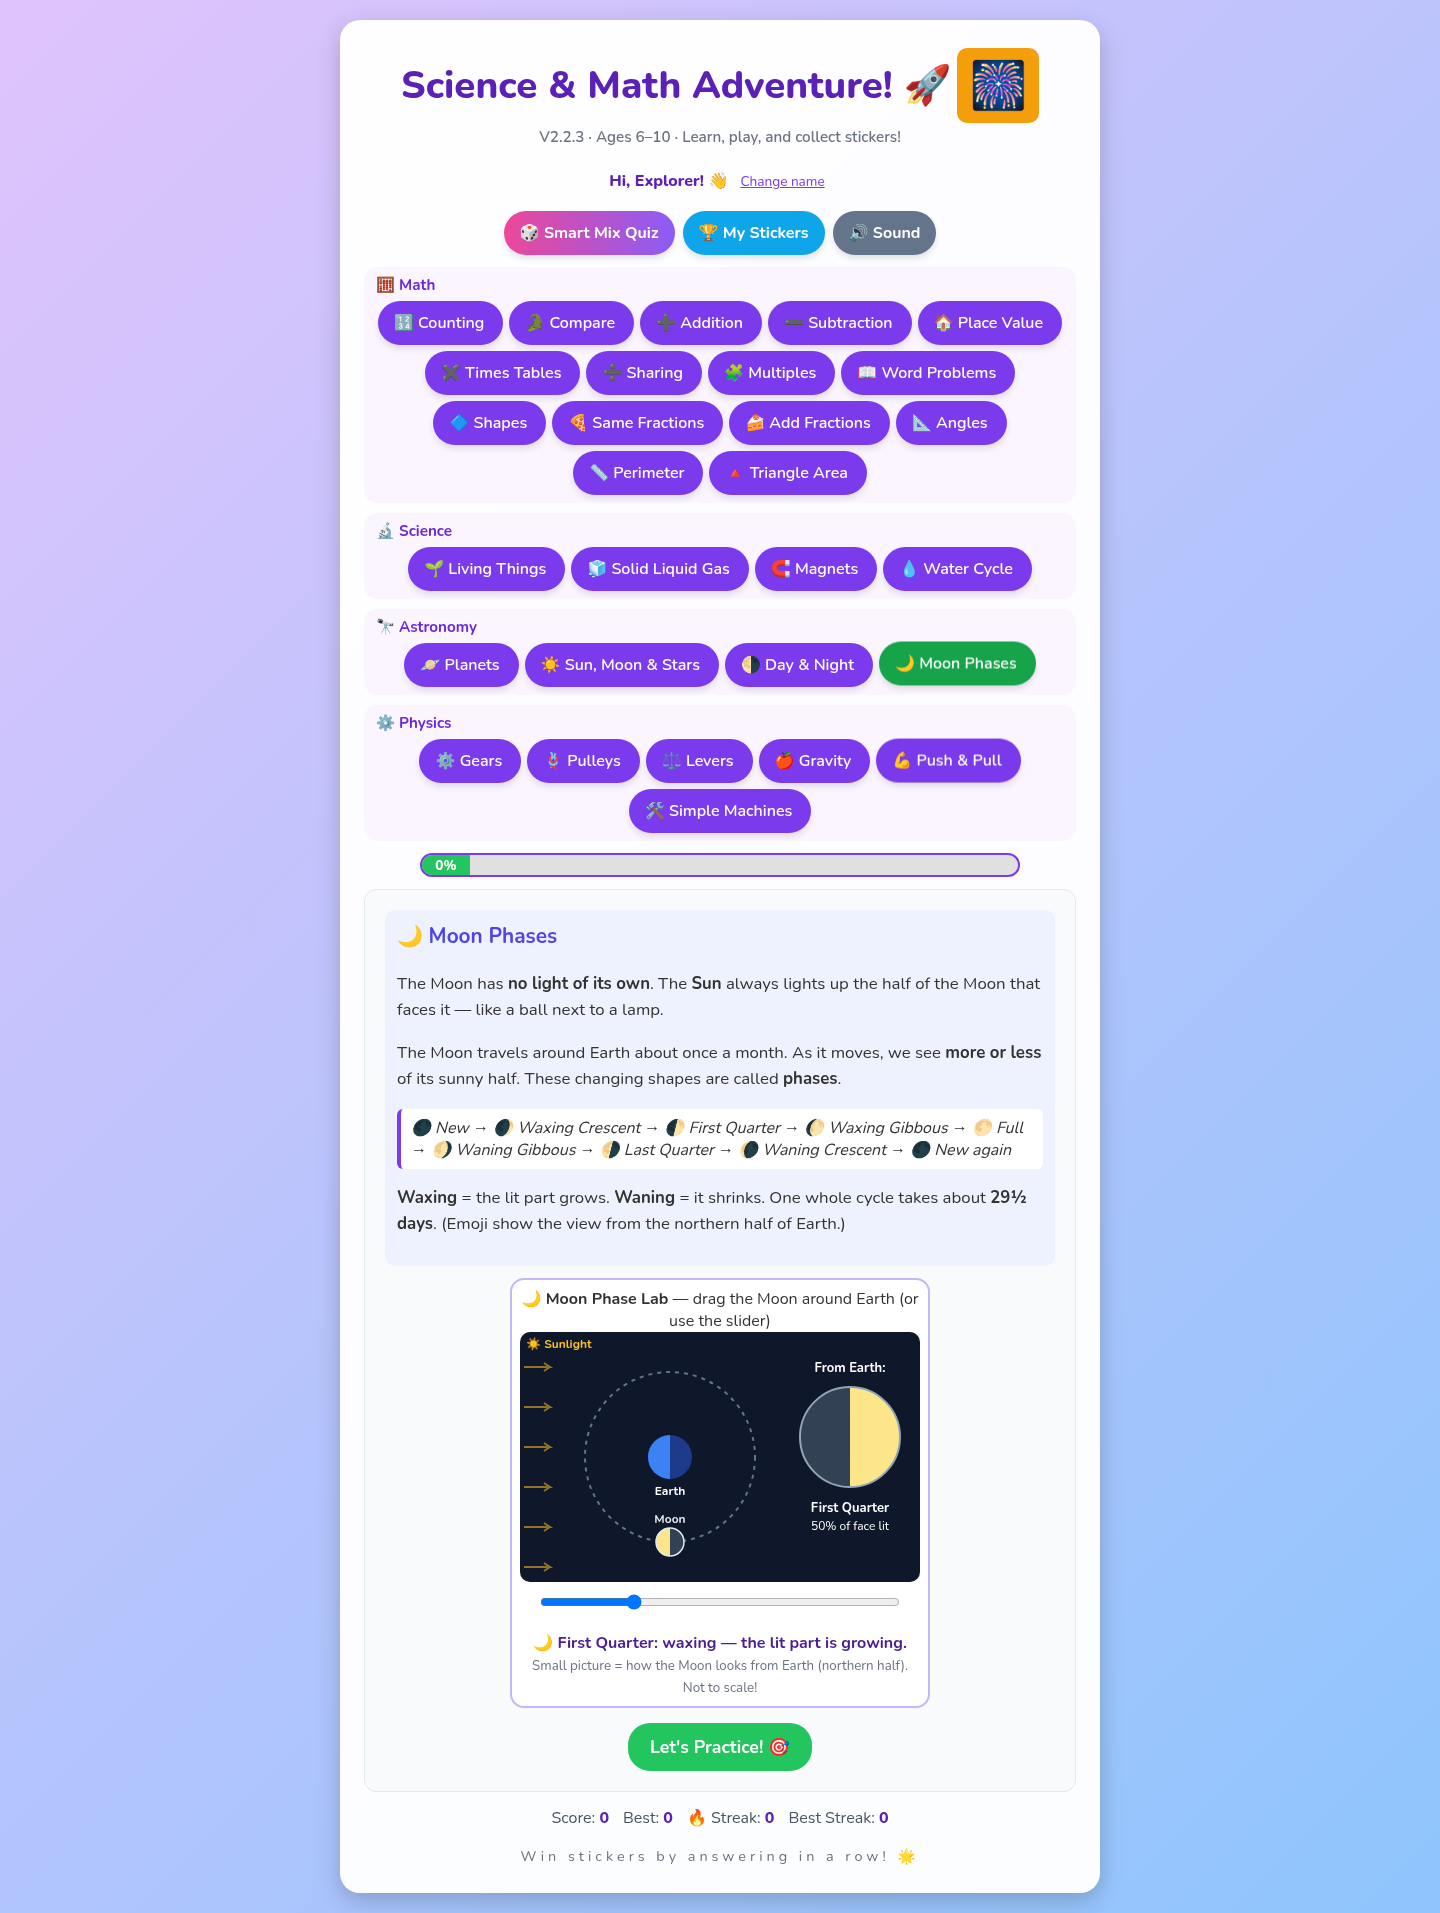
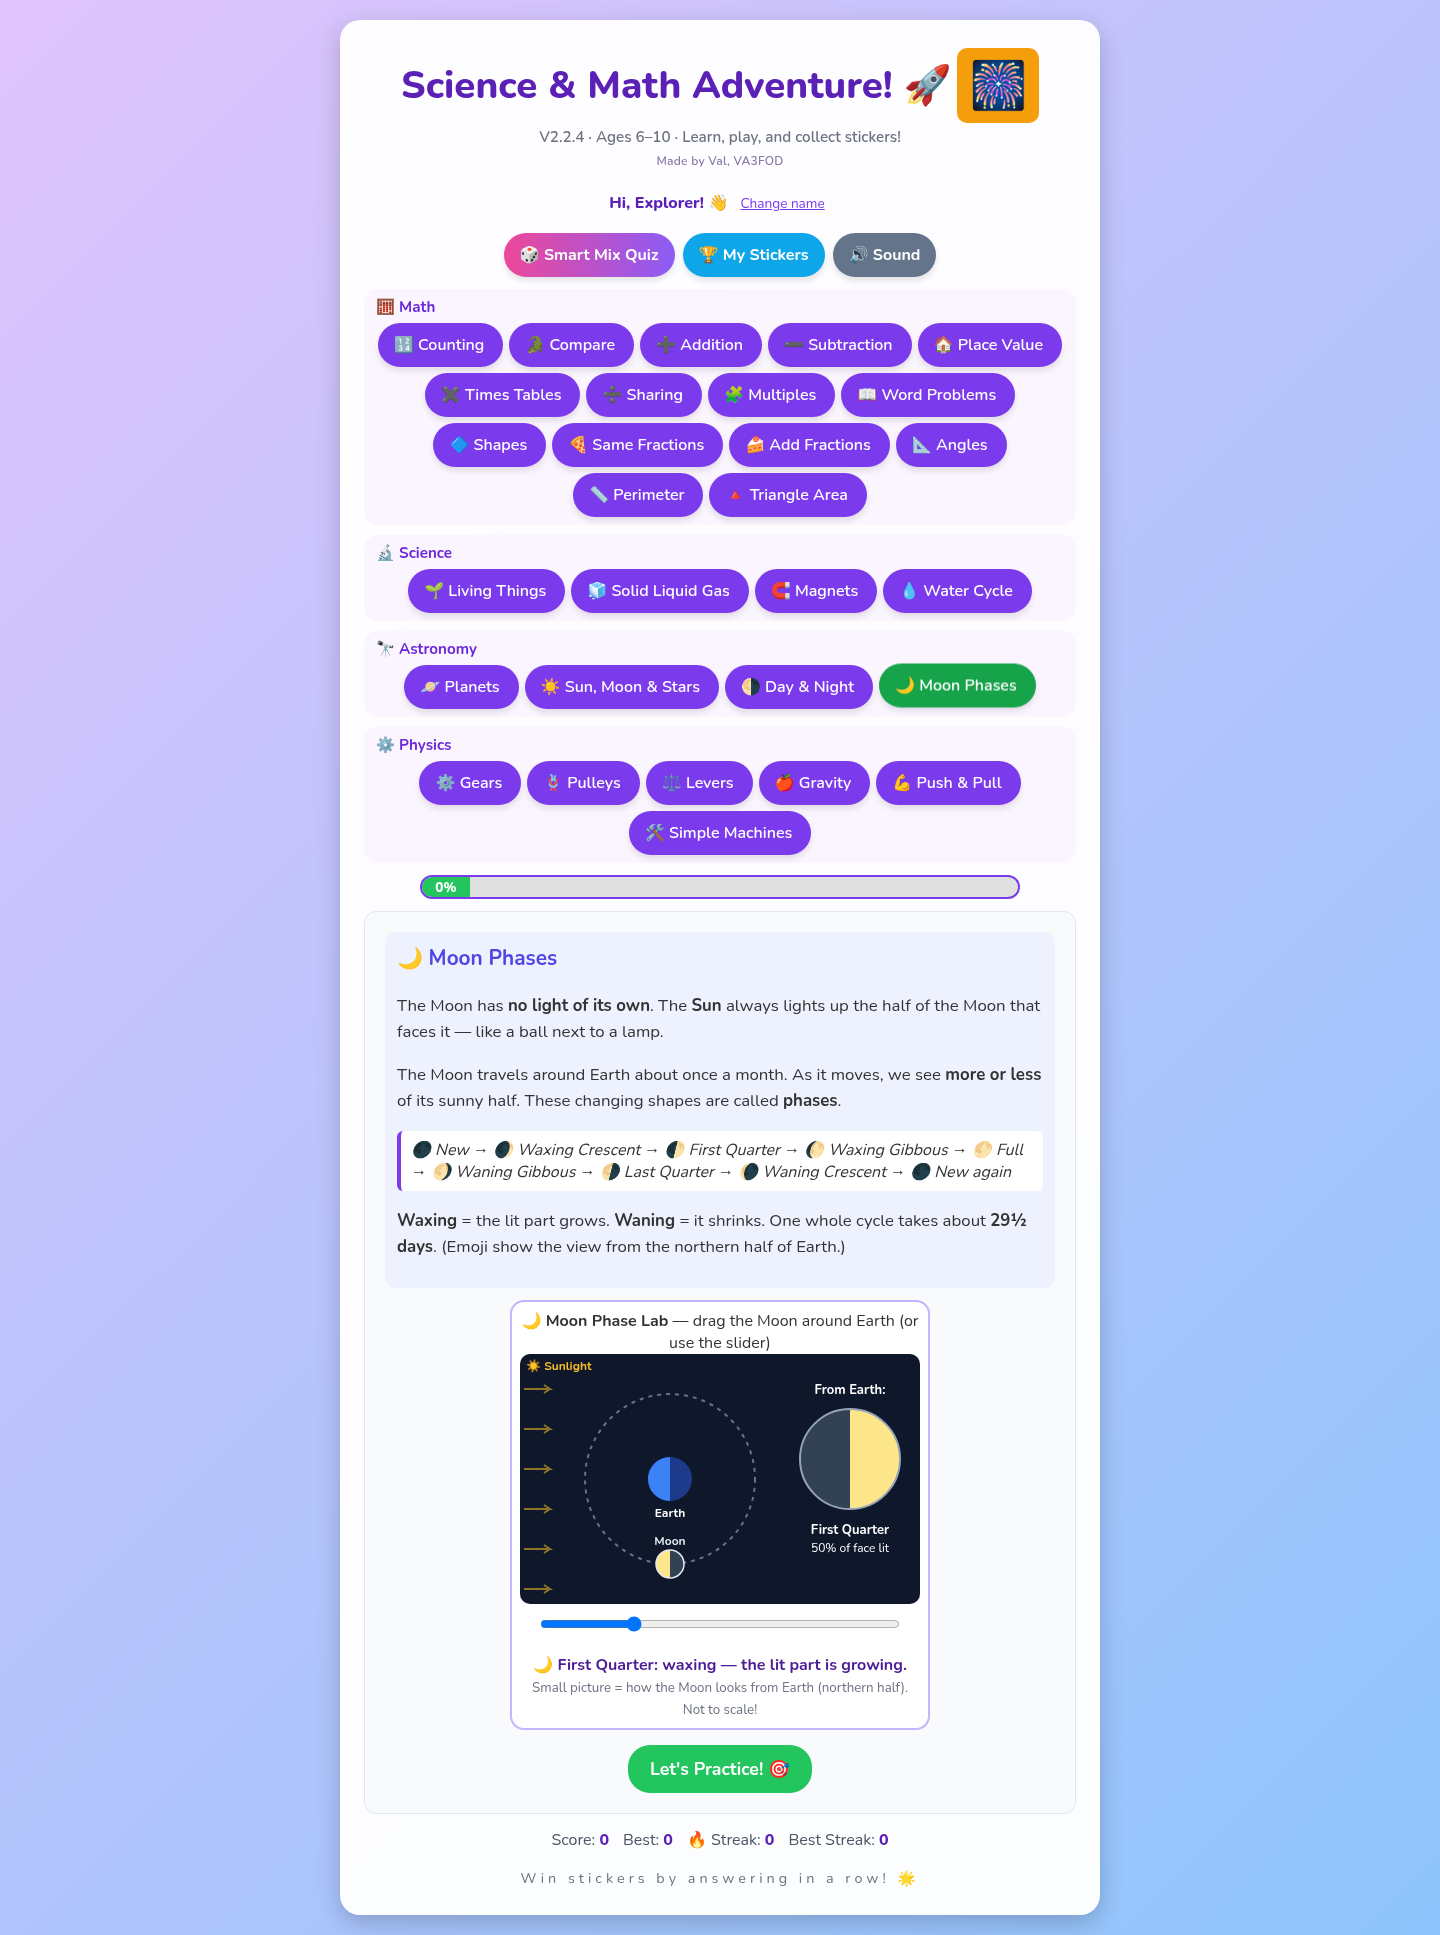
Bump Science & Math Adventure to v2.2.4
Add a quiet “Made by Val, VA3FOD” credit and refresh screenshots.

diff --git a/index.html b/index.html
@@ -4,7 +4,7 @@
 <meta charset="UTF-8">
 <meta name="viewport" content="width=device-width, initial-scale=1, viewport-fit=cover">
 <meta name="theme-color" content="#7c3aed">
-<title>Science &amp; Math Adventure! V2.2.3 · Ages 6–10</title>
+<title>Science &amp; Math Adventure! V2.2.4 · Ages 6–10</title>
 <link href="https://fonts.googleapis.com/css2?family=Nunito:wght@400;600;700;800&display=swap" rel="stylesheet">
 <style>
 *{box-sizing:border-box}
@@ -53,7 +53,7 @@ button.help-btn{background:#f59e0b}button.help-btn:disabled{background:#9ca3af}
 #hint-area{margin-top:10px;padding:8px;background:#fffbeb;border:1px dashed #fcd34d;border-radius:6px;font-style:italic;color:#713f12;min-height:18px;font-size:.95em}
 #feedback{font-size:1.15em;font-weight:700;margin-top:10px;min-height:25px;text-align:center}
 .correct{color:#16a34a}.incorrect{color:#dc2626}
-footer{margin-top:10px;font-size:1em;color:#4b5563;text-align:center}
+footer{margin-top:10px;font-size:1em;color:#4b5563;text-align:center}.app-credit{margin:-6px 0 12px;padding:0;font-size:.75em;font-weight:600;color:#8b7aa8;letter-spacing:.02em;line-height:1.35}
 #score-value,#best-score-value,#streak-value,#best-streak-value{font-weight:800;color:#5b21b6}
 .stats{display:flex;flex-wrap:wrap;justify-content:center;gap:6px 14px}
 #next-problem{background:#f97316;color:#fff;border:none;padding:10px 20px;border-radius:20px;font-size:1.05em;font-weight:700;cursor:pointer;margin-top:8px}
@@ -176,7 +176,8 @@ footer{margin-top:10px;font-size:1em;color:#4b5563;text-align:center}
 <div class="container">
   <header>
     <h1>Science &amp; Math Adventure! 🚀 <button id="challenge-fireworks-btn" title="Unlock Fireworks with a Challenge!" aria-label="Fireworks challenge">🎆</button></h1>
-    <p class="subtitle">V2.2.3 · Ages 6–10 · Learn, play, and collect stickers!</p>
+    <p class="subtitle">V2.2.4 · Ages 6–10 · Learn, play, and collect stickers!</p>
+    <p class="app-credit">Made by Val, VA3FOD</p>
   </header>
   <div id="player-hi"><span id="player-hi-text"></span><button id="change-name-btn" type="button">Change name</button></div>
   <div class="top-actions">
@@ -1219,7 +1220,7 @@ function syncMedals() { ALL_TOPIC_IDS.forEach(id => { if ((state.progress[id] ||
 
 /* ================= STATE + STORAGE (durable; schema v2; never resets by date, reload or fireworks) ================= */
 const KEY = 'sciMathAdventureV2';
-const APP_VERSION = '2.2.3';
+const APP_VERSION = '2.2.4';
 const SCHEMA_V = 2;
 const toInt = x => { const n = Math.floor(Number(x)); return Number.isFinite(n) && n > 0 ? n : 0; };
 let storageOK = true;

diff --git a/README.md b/README.md
@@ -21,7 +21,7 @@ Science & Math Adventure is an interactive science and math learning game for ki
 - Open it in your browser on a phone, tablet, or computer: [https://va3fod.github.io/Science-Math-Adventure/](https://va3fod.github.io/Science-Math-Adventure/)
 - Or download [`index.html`](./index.html) and open it locally — no install, and it works offline once downloaded.
 
-A copy of the v2.2.3 build is also attached to the [v2.2.3 release](https://github.com/va3fod/Science-Math-Adventure/releases/tag/v2.2.3) as `Science_Math_Adventure_V2.2.3.html`.
+A copy of the v2.2.4 build is also attached to the [v2.2.4 release](https://github.com/va3fod/Science-Math-Adventure/releases/tag/v2.2.4) as `Science_Math_Adventure_V2.2.4.html`.
 
 ## Screenshots
 
